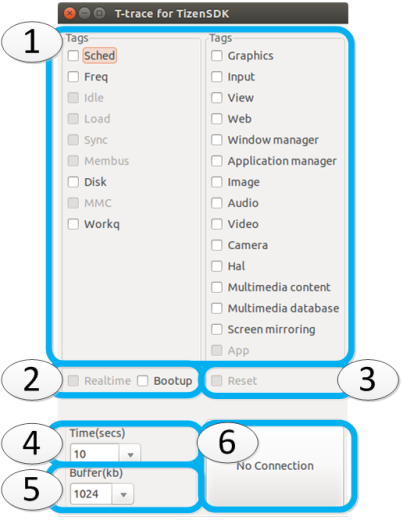
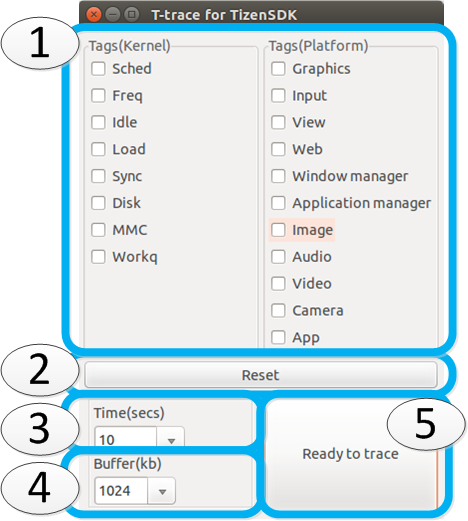
ttrace: Update dialog image and comments
Update T-trace dialog image and
remove comments of bootup feature.

Bootup feature could not supported furthermore as
security issue.

diff --git a/org.tizen.devtools/html/native_tools/t_trace_n.htm b/org.tizen.devtools/html/native_tools/t_trace_n.htm
@@ -57,8 +57,6 @@
 <ol><li><strong>Tags</strong>
 <p>You can define which categories to trace. Currently, the T-trace provides several Tizen platform-specific categories, and a few low level system information categories. The Linux kernel and Tizen platform modules (such as EFL, xorg, and mmfw) support the categories.</p>
 <p>To enable the categories you want, select the applicable check boxes.</p></li>
-<li><strong>Bootup</strong>
-<p>Select the check box to reboot the target and start tracing for the platform boot. When tracing is finished, the result can be displayed on a viewer.</p></li>
 <li><strong>Reset</strong>
 <p>Select the check box to return all tags and options in the T-trace dialog to their default values.</p></li>
 <li><strong>Time(secs)</strong>
